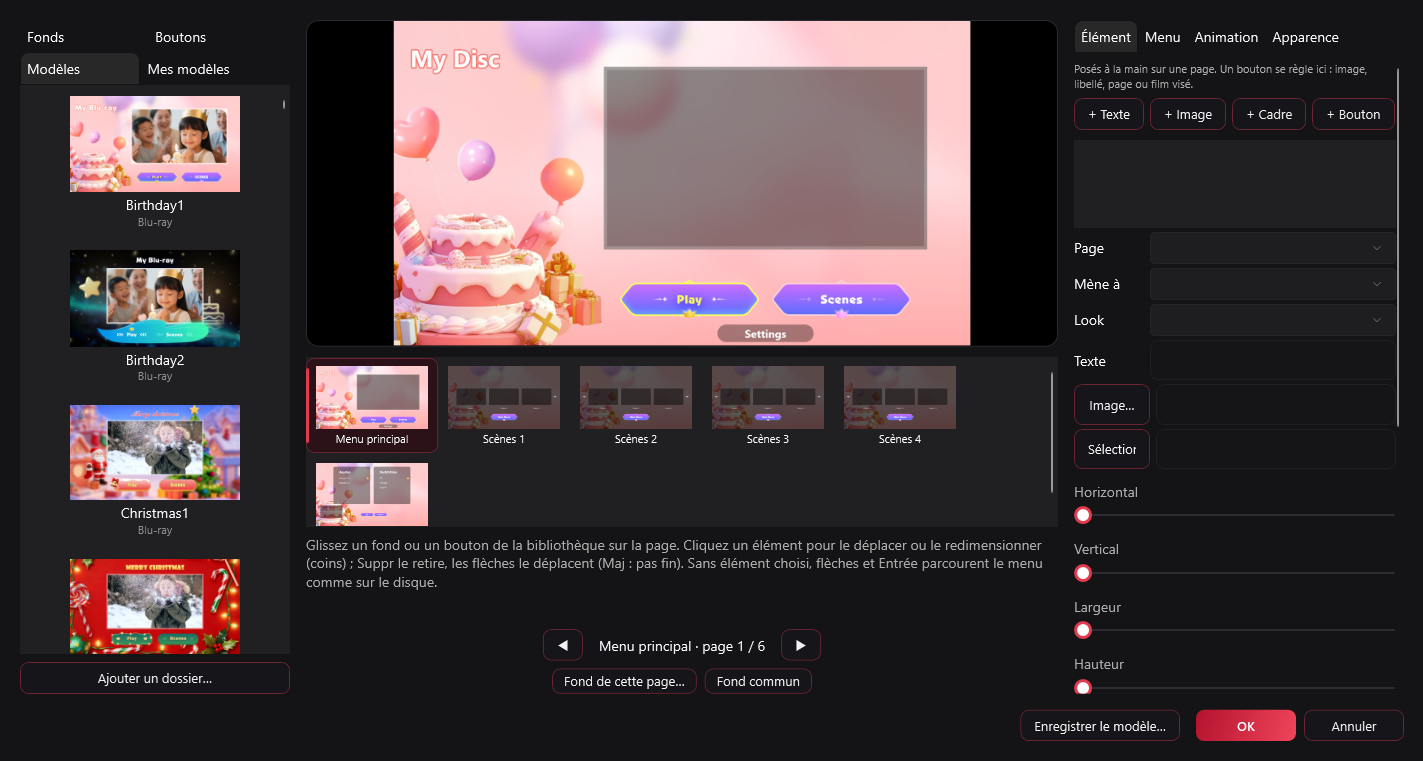
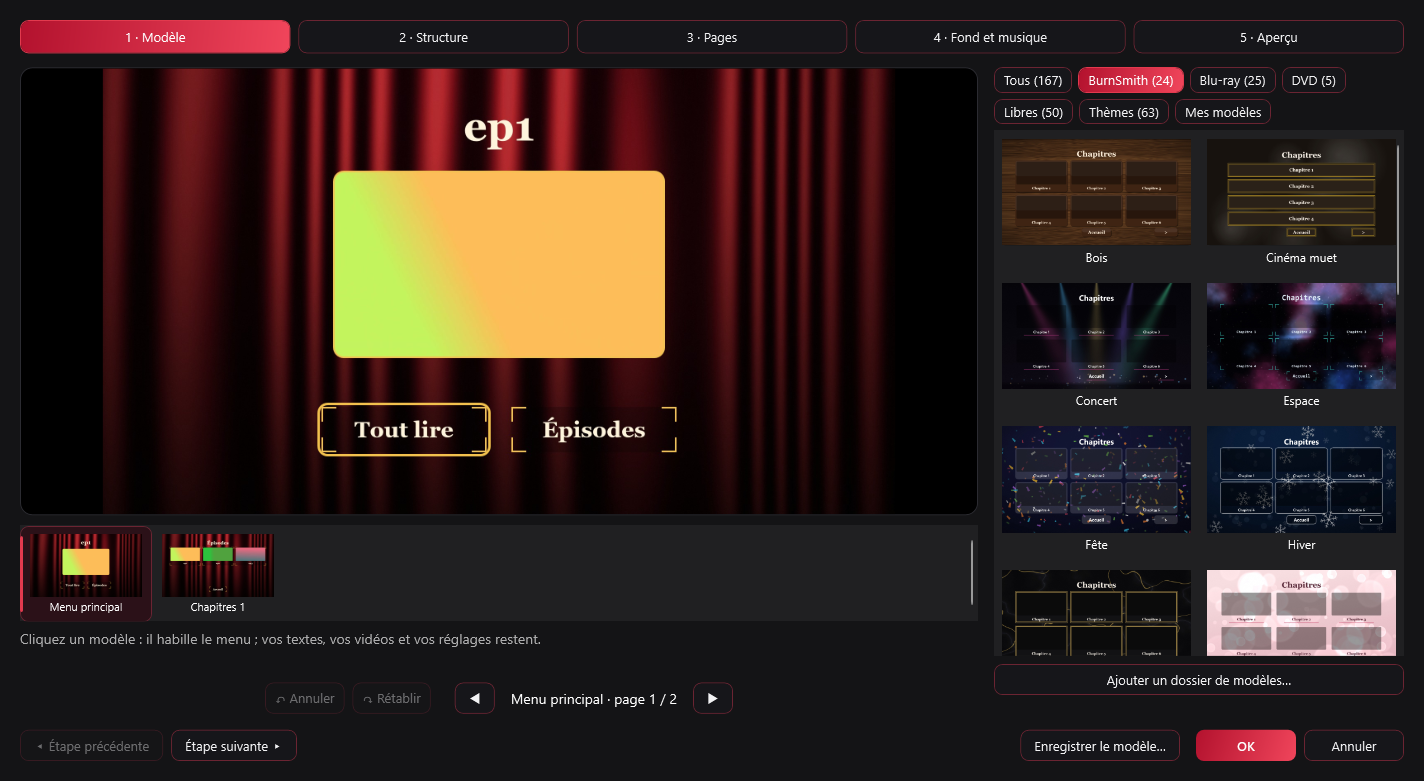
Menu HDMV : deux boutons d'une page ne se chevauchent plus (une platine cache ceux qui se recouvrent), le point de piste se place à gauche du bouton au lieu de dessus ; libellé lisible sur un bouton image (foncé sur une étiquette claire) ; langue choisie dans l'installeur prioritaire sur celle de l'

diff --git a/src/BurnSmith.Core/HdmvMenu.cs b/src/BurnSmith.Core/HdmvMenu.cs
@@ -157,6 +157,23 @@ public static class HdmvMenu
         // choosing a stream moves the dot of its kind at once
         IEnumerable<byte[]> Dot(MenuButton b) => dots.Where(d => d.Button.Action.Kind == b.Action.Kind).Select(d => Nav.EnableButton(d.Id, d.Button == b));
 
+        // Where each picture goes: the highlights, then the dots. No two may share a pixel: a living-room player erases or hides buttons that overlap
+        // (a software player draws them anyway). So a dot stands just left of its button's highlight, not on it as in the BD-J menu, and what still
+        // overlaps is trimmed: two highlights at the middle of what they share, a highlight alone where it meets a dot.
+        var boxes = new List<(uint[] Argb, int X, int Y, int W, int H)>();
+        for (var i = 0; i < count; i++)
+        {
+            var box = MenuRenderer.FocusBox(page.Buttons[i]);
+            boxes.Add(Crop(focus[i].Argb, focus[i].W, focus[i].H, Px(box.X), Px(box.Y), planeW, planeH));
+        }
+        foreach (var (b, _, _) in dots)
+        {
+            var box = MenuRenderer.FocusBox(b);
+            var left = Px(box.X) - marker.W - Px(4);
+            boxes.Add(Crop(marker.Argb, marker.W, marker.H, left >= 0 ? left : Px(box.X) + Px(markerOffset), Px(box.Y) + (Px(box.H) - marker.H) / 2, planeW, planeH));
+        }
+        Separate(boxes, count);
+
         var buttons = new List<IgButton>();
         for (var i = 0; i < count; i++)
         {
@@ -174,15 +191,12 @@ public static class HdmvMenu
                 // a page this disc does not have: the first one
                 _ => [Nav.Set(Selected, 0), Nav.Set(Page, playlists.GetValueOrDefault(a.Page ?? "", FirstPlaylist)), Nav.JumpObject(1)],
             };
-            var box = MenuRenderer.FocusBox(b);
-            var (argb, x, y, w, h) = Crop(focus[i].Argb, focus[i].W, focus[i].H, Px(box.X), Px(box.Y), planeW, planeH);
+            var (argb, x, y, w, h) = boxes[i];
             buttons.Add(new IgButton(i + 1, x, y, w, h, argb, null, Number(b.Up, i + 1), Number(b.Down, i + 1), Number(b.Left, i + 1), Number(b.Right, i + 1), commands));
         }
-        foreach (var (b, _, id) in dots)
+        foreach (var (_, _, id) in dots)
         {
-            // where the BD-J menu draws it: from the left edge of the button's highlight, half-way up
-            var box = MenuRenderer.FocusBox(b);
-            var (argb, x, y, w, h) = Crop(marker.Argb, marker.W, marker.H, Px(box.X) + Px(markerOffset), Px(box.Y) + (Px(box.H) - marker.H) / 2, planeW, planeH);
+            var (argb, x, y, w, h) = boxes[id - 1];
             buttons.Add(new IgButton(id, x, y, w, h, null, argb, id, id, id, id, [], Enabled: false));
         }
         var start = Math.Min(1, count); // a page without button keeps the opener selected
@@ -198,6 +212,50 @@ public static class HdmvMenu
         var pixels = buttons.Where(b => b.Selected != null).Sum(b => (long)b.W * b.H);
         if (pixels > 16 << 20) log($"warning: page {page.Id}: its highlights are {pixels >> 20} MB of pictures, more than the 16 MB a player decodes at once");
         return IgStream.Write(planeW, planeH, rateCode, buttons, opener);
+    }
+
+    /// <summary>
+    /// Trims the pictures until no two overlap. The first <paramref name="highlights"/> give way to each other half and half, on the side where they share
+    /// the least; the others (dots) are kept whole and the highlight under one loses the smallest side that frees it.
+    /// </summary>
+    public static void Separate(List<(uint[] Argb, int X, int Y, int W, int H)> boxes, int highlights)
+    {
+        void Keep(int i, int x0, int y0, int x1, int y1)
+        {
+            var (argb, x, y, w, h) = boxes[i];
+            (x0, y0, x1, y1) = (Math.Max(x0, x), Math.Max(y0, y), Math.Min(x1, x + w), Math.Min(y1, y + h));
+            if (x1 - x0 < 8 || y1 - y0 < 8) return; // shortcut: a highlight that would vanish stays whole and overlaps, never seen on a real template
+            var cut = new uint[(x1 - x0) * (y1 - y0)];
+            for (var row = y0; row < y1; row++) Array.Copy(argb, (row - y) * w + x0 - x, cut, (row - y0) * (x1 - x0), x1 - x0);
+            boxes[i] = (cut, x0, y0, x1 - x0, y1 - y0);
+        }
+        const int All = int.MaxValue;
+        for (var i = 0; i < highlights; i++)
+            for (var j = i + 1; j < boxes.Count; j++)
+            {
+                var (a, b) = (boxes[i], boxes[j]);
+                int x0 = Math.Max(a.X, b.X), x1 = Math.Min(a.X + a.W, b.X + b.W), y0 = Math.Max(a.Y, b.Y), y1 = Math.Min(a.Y + a.H, b.Y + b.H);
+                if (x0 >= x1 || y0 >= y1) continue;
+                if (j >= highlights) // a dot: the side of the highlight that costs it the least
+                {
+                    int left = (b.X + b.W - a.X) * a.H, right = (a.X + a.W - b.X) * a.H, top = (b.Y + b.H - a.Y) * a.W, bottom = (a.Y + a.H - b.Y) * a.W;
+                    var least = Math.Min(Math.Min(left, right), Math.Min(top, bottom));
+                    if (least == left) Keep(i, b.X + b.W, 0, All, All);
+                    else if (least == right) Keep(i, 0, 0, b.X, All);
+                    else if (least == top) Keep(i, 0, b.Y + b.H, All, All);
+                    else Keep(i, 0, 0, All, b.Y);
+                }
+                else if (x1 - x0 < y1 - y0) // side by side
+                {
+                    var middle = (x0 + x1) / 2;
+                    if (a.X <= b.X) { Keep(i, 0, 0, middle, All); Keep(j, middle, 0, All, All); } else { Keep(j, 0, 0, middle, All); Keep(i, middle, 0, All, All); }
+                }
+                else // one above the other
+                {
+                    var middle = (y0 + y1) / 2;
+                    if (a.Y <= b.Y) { Keep(i, 0, 0, All, middle); Keep(j, 0, middle, All, All); } else { Keep(j, 0, 0, All, middle); Keep(i, 0, middle, All, All); }
+                }
+            }
     }
 
     /// <summary>The part of a picture placed at <paramref name="x"/>, <paramref name="y"/> that lies on the screen (a highlight's margin can pass the edge), at least 8 pixels a side.</summary>

diff --git a/src/BurnSmith.Core/Menu/MenuRenderer.cs b/src/BurnSmith.Core/Menu/MenuRenderer.cs
@@ -29,6 +29,31 @@ public static partial class MenuRenderer
         return error == null ? result : throw new InvalidOperationException(error.Message, error);
     }
 
+    static readonly System.Collections.Concurrent.ConcurrentDictionary<(string, string), string?> Inks = new();
+
+    /// <summary>
+    /// The colour of a label written over a button picture: null (the design's <paramref name="text"/> colour) when it stands out from the
+    /// picture, else near-black on a light picture and white on a dark one. A cream word on a cream paper label could not be read.
+    /// </summary>
+    public static string? InkOn(string picture, string text) => Inks.GetOrAdd((picture, text), key => Sta(() =>
+    {
+        // the middle of the picture, where the label goes, shrunk to 32x16: its mean brightness over the pixels that show
+        var bmp = new RenderTargetBitmap(32, 16, 96, 96, PixelFormats.Pbgra32);
+        var visual = new DrawingVisual();
+        using (var dc = visual.RenderOpen()) dc.DrawImage(Load(key.Item1, new Rect(0, 0, 32, 16)), new Rect(-8, -4, 48, 24));
+        bmp.Render(visual);
+        var px = new byte[32 * 16 * 4];
+        bmp.CopyPixels(px, 32 * 4, 0);
+        double sum = 0, weight = 0;
+        for (var i = 0; i < px.Length; i += 4)
+            if (px[i + 3] > 0) { sum += px[i + 2] * 0.3 + px[i + 1] * 0.59 + px[i] * 0.11; weight += px[i + 3]; } // premultiplied: each pixel already weighed by how much it shows
+        if (weight < 32 * 16 * 255 * 0.25) return null; // mostly see-through: the page behind decides, as for any label
+        var under = sum * 255 / weight;
+        var t = Col(key.Item2);
+        var ink = t.R * 0.3 + t.G * 0.59 + t.B * 0.11;
+        return Math.Abs(ink - under) >= 100 ? null : under > 128 ? "#141414" : "#FFFFFF";
+    }));
+
     static Color Col(string hex, double opacity = 1)
     {
         var c = (Color)ColorConverter.ConvertFromString(hex);
@@ -467,7 +492,7 @@ public static partial class MenuRenderer
                 var at = b.FocusSlot is { } s ? new Rect(s.X - box.X, s.Y - box.Y, s.W, s.H) : new Rect(m, m, b.Rect.W, b.Rect.H);
                 dc.DrawImage(Load(b.FocusImage, at), at);
                 // a picture button of the user's: its selected picture covers the label the page wrote, so the label is written again over it
-                if (written != null && b.FocusSlot == null) DrawLabel(dc, d, written with { Rect = new Box(m, m, b.Rect.W, b.Rect.H) });
+                if (written != null && b.FocusSlot == null) DrawLabel(dc, d, written with { Rect = new Box(m, m, b.Rect.W, b.Rect.H), Ink = written.Ink == null ? null : InkOn(b.FocusImage, d.TextColor) });
                 return;
             }
             switch (style)
@@ -700,7 +725,7 @@ public static partial class MenuRenderer
     {
         var face = new Typeface(new FontFamily(d.Font), FontStyles.Normal, l.Bold ? FontWeights.Bold : FontWeights.SemiBold, FontStretches.Normal);
         var text = new FormattedText(Shown(d, l.Value), System.Globalization.CultureInfo.CurrentUICulture, FlowDirection.LeftToRight,
-                                     face, l.Size, new SolidColorBrush(colour ?? Col(d.TextColor)), 1.0)
+                                     face, l.Size, new SolidColorBrush(colour ?? Col(l.Ink ?? d.TextColor)), 1.0)
         { MaxTextWidth = l.Rect.W, MaxLineCount = 1, Trimming = TextTrimming.CharacterEllipsis };
         var x = l.Align == "left" ? l.Rect.X : l.Rect.X + (l.Rect.W - text.Width) / 2;
         var at = new Point(x, l.Rect.Y + (l.Rect.H - text.Height) / 2);

diff --git a/src/BurnSmith.Cli/BdCheck.cs b/src/BurnSmith.Cli/BdCheck.cs
@@ -544,6 +544,14 @@ static class BdCheck
                 plays > 0 && At(Nav.GoTo(plays)) == plays - 3 && At(Nav.GoTo(plays + 1)) == plays - 1 && At(Nav.JumpTitle(2)) == plays + 3 && At(Nav.JumpTitle(0)) == title.Count - 1);
             Check("HDMV title: subtitles off shows the forced track of the audio's language", At(Nav.SelectStreams(1, 3)) > 0 && At(Nav.SelectStreams(1, 3)) < plays);
 
+            // two highlights that share 20 lines, and a dot on the first one's left edge
+            var zones = new List<(uint[] Argb, int X, int Y, int W, int H)> { (new uint[600 * 100], 100, 200, 600, 100), (new uint[600 * 100], 100, 280, 600, 100), (new uint[24 * 24], 110, 238, 24, 24) };
+            HdmvMenu.Separate(zones, 2);
+            Check("HDMV: no two buttons of a page overlap (a player hides those that do), the dot kept whole",
+                zones[2].W == 24 && zones.All(z => z.Argb.Length == z.W * z.H)
+                && zones.SelectMany((a, i) => zones.Skip(i + 1).Select(b => (a, b))).All(p => p.a.X + p.a.W <= p.b.X || p.b.X + p.b.W <= p.a.X || p.a.Y + p.a.H <= p.b.Y || p.b.Y + p.b.H <= p.a.Y),
+                string.Join(" ", zones.Select(z => $"{z.X},{z.Y} {z.W}x{z.H}")));
+
             var film = Clip("hdmvfilm.mkv", "testsrc2=s=1280x720:r=24000/1001:d=6", 48000, Fine, Ac3At48);
             Tools.Run(ffmpeg, ["-y", "-v", "error", "-i", film, "-map", "0", "-map", "0:a", "-c", "copy", F("hdmv2audio.mkv")]); // two audio tracks: the settings page exists
             var log = new List<string>();

diff --git a/src/BurnSmith.Cli/Program.cs b/src/BurnSmith.Cli/Program.cs
@@ -672,6 +672,11 @@ if (a.Count >= 1 && a[0] == "check-elements")
         var houseButtons = elButtons.Where(b => b.Source.StartsWith(TemplateLabel.Own + " · ")).ToList();
         Check($"les boutons de BurnSmith ({houseButtons.Count}) sont listés avec leur sélection, et se lisent", houseButtons.Count >= 80
               && houseButtons.All(b => b.Focus != null && MenuRenderer.Size(b.Normal!) != null && MenuRenderer.Size(b.Focus) != null));
+        var paperTag = houseButtons.FirstOrDefault(b => b.Source.EndsWith("Papier") && b.Name == "Étiquette")?.Normal;
+        var inkTag = houseButtons.FirstOrDefault(b => b.Source.EndsWith("Encre") && b.Name == "Rectangle")?.Normal;
+        Check("un libellé sur un bouton image se lit : foncé sur l'étiquette claire, la couleur du modèle gardée sur le bouton sombre",
+              paperTag != null && inkTag != null && MenuRenderer.InkOn(paperTag, "#FFF4DC") == "#141414" && MenuRenderer.InkOn(inkTag, "#FFF4DC") == null
+              && MenuElement.Parse($"kind=button;rect=0,0,400,120;text=Chapitres;file={paperTag}").Ops(new MenuDesign { TextColor = "#FFF4DC" }).OfType<Label>().Single().Ink == "#141414");
         Check("seuls les boutons de l'utilisateur peuvent être retirés", elButtons.Where(b => b.Removable).All(b => b.Source == ElementLibrary.MyButtons));
         var imported = ElementLibrary.ImportButton(normalPic, focusPic);
         try

diff --git a/src/BurnSmith.Core/Menu/MenuLayout.cs b/src/BurnSmith.Core/Menu/MenuLayout.cs
@@ -10,7 +10,8 @@ public abstract record Op;
 public sealed record Fill(Box Rect, string Color, double Opacity, int Radius) : Op;
 /// <summary>An outline around <paramref name="Rect"/> (the edge of a free element).</summary>
 public sealed record Border(Box Rect, string Color, int Width, int Radius) : Op;
-public sealed record Label(string Value, Box Rect, int Size, bool Bold, string Align = "center") : Op;
+/// <param name="Ink">The label's colour when it is not the design's text colour (written over a picture button: see <see cref="MenuRenderer.InkOn"/>).</param>
+public sealed record Label(string Value, Box Rect, int Size, bool Bold, string Align = "center", string? Ink = null) : Op;
 public sealed record Picture(string Path, Box Rect, int Radius, int BorderWidth) : Op;
 
 /// <summary>Template artwork (transparent PNG / JPEG) stretched to <paramref name="Rect"/>. <paramref name="Backdrop"/> = the page's background picture, which a moving menu replaces by its video.</summary>

diff --git a/src/BurnSmith.Core/Menu/MenuElement.cs b/src/BurnSmith.Core/Menu/MenuElement.cs
@@ -105,7 +105,7 @@ public sealed class MenuElement
                 {
                     // a library button: its picture is the look, the label (if any) goes over it
                     yield return new Image(art, box);
-                    if (Text.Length > 0) yield return new Label(Text, box, Math.Clamp(Size, 20, 80), true);
+                    if (Text.Length > 0) yield return new Label(Text, box, Math.Clamp(Size, 20, 80), true, Ink: MenuRenderer.InkOn(art, d.TextColor));
                     break;
                 }
                 // the button's own look, else the design's (card, label), so a hand-placed button sits beside the template's own

diff --git a/README.md b/README.md
@@ -33,7 +33,7 @@ Tous ces modèles sont déjà dans **un seul format modifiable**, portés par l'
 
 ### Des menus à votre image
 
-![L'éditeur de menu : bibliothèque à gauche, aperçu au centre, réglages à droite](docs/images/editeur-de-menu.png)
+![L'éditeur de menu : les cinq étapes en haut, la page du menu à gauche, à droite la galerie des modèles par famille](docs/images/editeur-de-menu.png)
 
 L'éditeur dessine **en direct** les pages du disque (menu, scènes, réglages, crédits) et se parcourt comme sur le disque, à la souris ou aux flèches.
 
